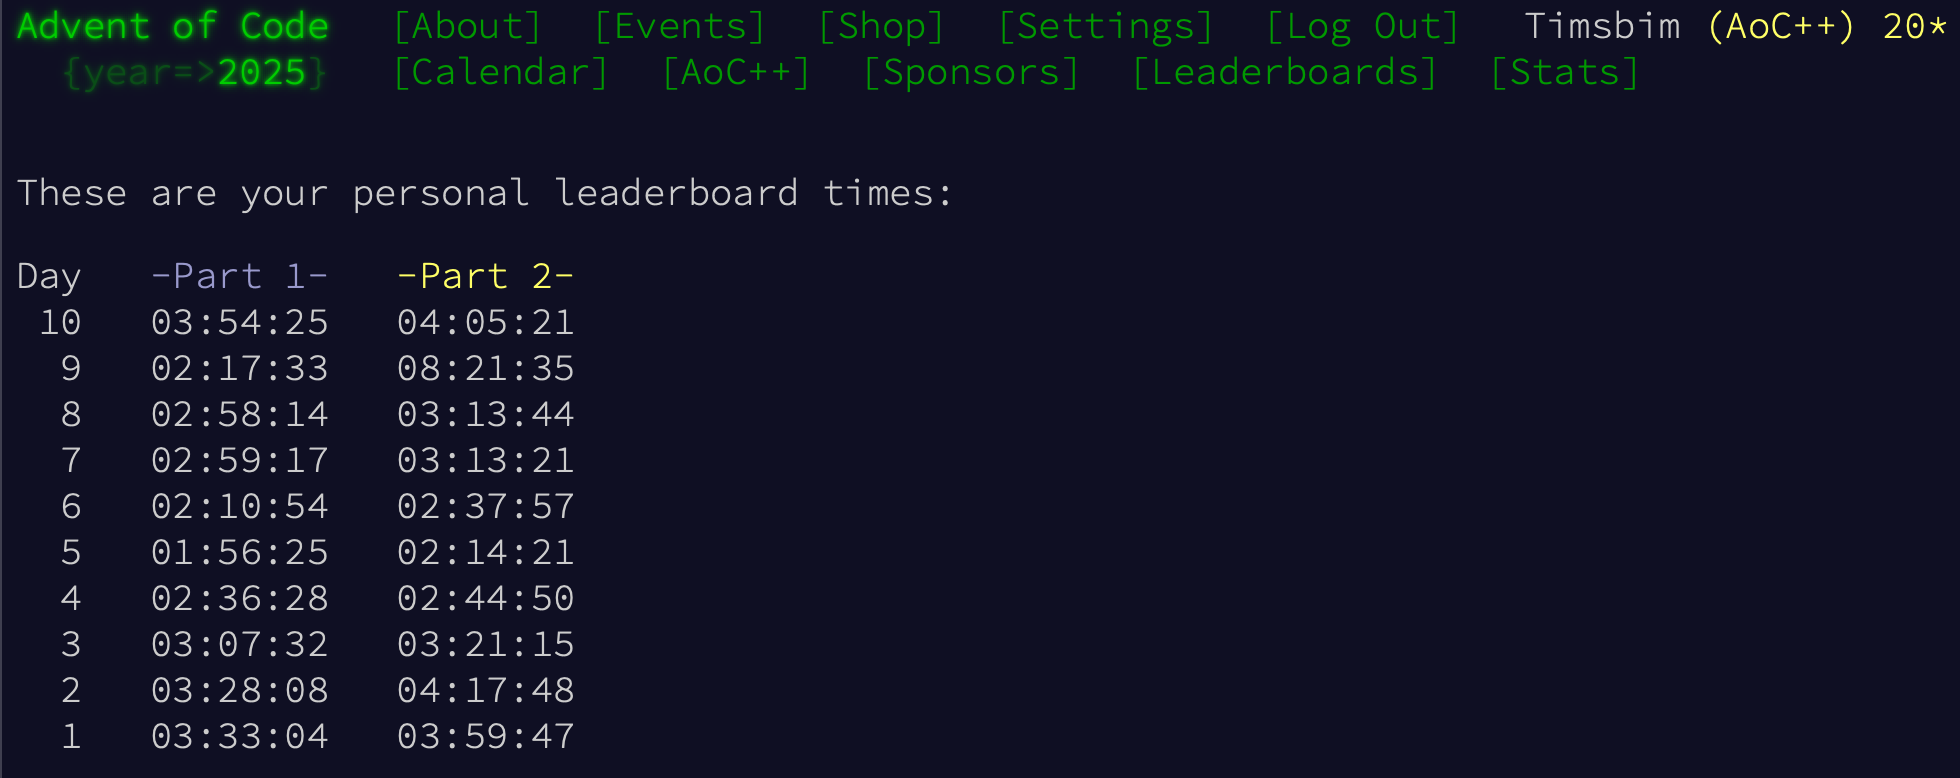
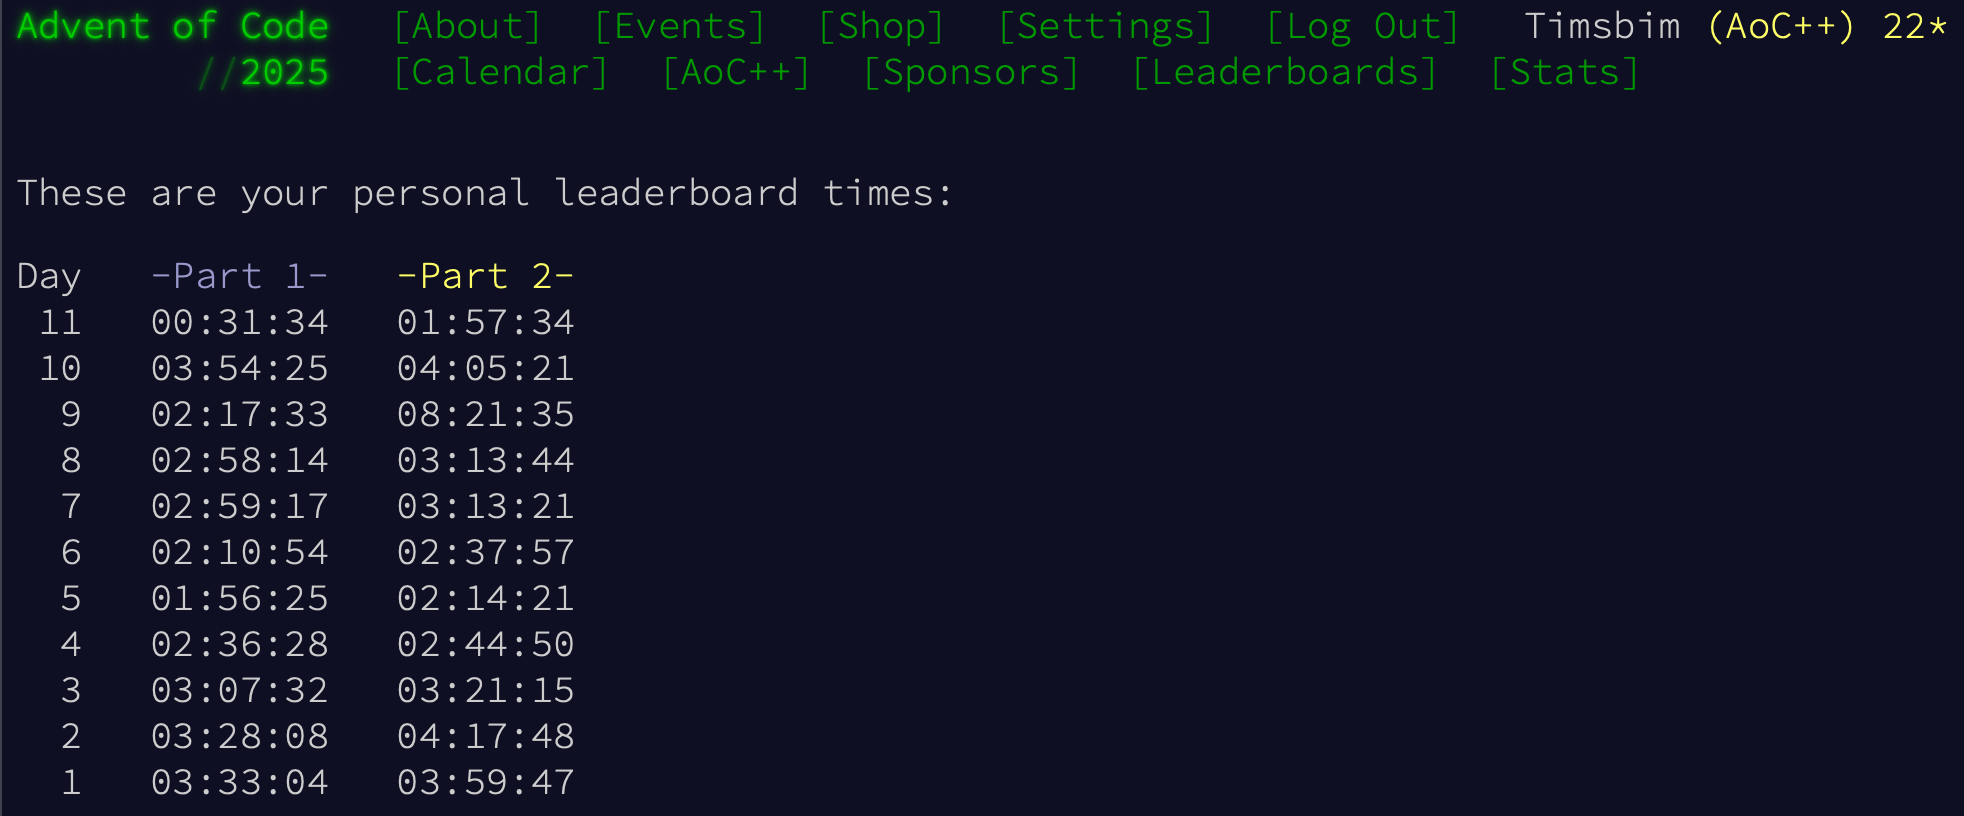
Update: solutions day 11

diff --git a/run_all.py b/run_all.py
@@ -526,6 +526,79 @@ def day_10():
     assert solution == (33 if EXAMPLE else 18387)
 
 
+def day_11():
+    print("Day 11:")
+
+    file_name = f"2025/input/day_11{'_example' if EXAMPLE else ''}.txt"
+    CONNECTS = {}
+    with open(file_name, "r") as file:
+        for line in file:
+            left, right = line.rstrip().split(": ")
+            CONNECTS[left] = tuple(right.split())
+
+
+    def part_1():
+        count = 0
+        stack = [["you"]]
+        while stack:
+            path = stack.pop()
+            for node in CONNECTS[path[-1]]:
+                if node == "out":
+                    count += 1
+                elif node not in path:
+                    stack.append(path + [node])
+        return count
+
+
+    print(f"  - part 1:", solution := part_1())
+    assert solution == (5 if EXAMPLE else 497)
+
+
+    def part_2():
+        if EXAMPLE:
+            return 2
+
+        levels = [
+            {"svr"},
+            {"hin", "kvv", "xsj", "qef", "qhx"},
+            {"vab", "rpz", "vom", "heu", "dfh"},
+            {"wwq", "eiu", "gdg", "wru"},
+            {"uit", "mqr", "etj"},
+            {"ymg", "tnx", "you"},
+            {"out"}
+        ]
+    
+        counts_last = {"svr": 1}
+        for level, (starts, targets) in enumerate(zip(levels, levels[1:])):
+            counts_level = {}
+            for n0 in starts:
+                counts = {}
+                stack = [[n0]]
+                while stack:
+                    path = stack.pop()
+                    for node in CONNECTS.get(path[-1], []):
+                        if node in targets:
+                            if level == 1:
+                                if "fft" in path:
+                                    counts[node] = counts.get(node, 0) + 1
+                            elif level == 4:
+                                if "dac" in path:
+                                    counts[node] = counts.get(node, 0) + 1
+                            else:
+                                counts[node] = counts.get(node, 0) + 1
+                        elif node not in path:
+                            stack.append(path + [node])
+                for n, count in counts.items():
+                    counts_level[n] = counts_level.get(n, 0) + count * counts_last[n0]
+            counts_last = counts_level
+    
+        return sum(counts_last.values())
+
+
+    print(f"  - part 2:", solution := part_2())
+    assert solution == (2 if EXAMPLE else 358564784931864)
+
+
 days = {
     1: day_1,
     2: day_2,
@@ -536,7 +609,8 @@ days = {
     7: day_7,
     8: day_8,
     9: day_9,
-    10: day_10
+    10: day_10,
+    11: day_11
 }
 
 

diff --git a/day_11.py b/day_11.py
@@ -1,0 +1,73 @@
+print("Day 11")
+EXAMPLE = False
+
+
+file_name = f"2025/input/day_11{'_example' if EXAMPLE else ''}.txt"
+CONNECTS = {}
+with open(file_name, "r") as file:
+    for line in file:
+        left, right = line.rstrip().split(": ")
+        CONNECTS[left] = tuple(right.split())
+
+
+def part_1():
+    count = 0
+    stack = [["you"]]
+    while stack:
+        path = stack.pop()
+        for node in CONNECTS[path[-1]]:
+            if node == "out":
+                count += 1
+            elif node not in path:
+                stack.append(path + [node])
+    return count
+
+
+print("Part 1:", solution := part_1())
+assert solution == (5 if EXAMPLE else 497)
+
+
+def part_2():
+    if EXAMPLE:
+        return 2
+
+    levels = [
+        {"svr"},
+        {"hin", "kvv", "xsj", "qef", "qhx"},
+        {"vab", "rpz", "vom", "heu", "dfh"},
+        {"wwq", "eiu", "gdg", "wru"},
+        {"uit", "mqr", "etj"},
+        {"ymg", "tnx", "you"},
+        {"out"}
+    ]
+    
+    counts_last = {"svr": 1}
+    for level, (starts, targets) in enumerate(zip(levels, levels[1:])):
+        counts_level = {}
+        for n0 in starts:
+            counts = {}
+            stack = [[n0]]
+            while stack:
+                path = stack.pop()
+                for node in CONNECTS.get(path[-1], []):
+                    if node in targets:
+                        if level == 1:
+                            if "fft" in path:
+                                counts[node] = counts.get(node, 0) + 1
+                        elif level == 4:
+                            if "dac" in path:
+                                counts[node] = counts.get(node, 0) + 1
+                        else:
+                            counts[node] = counts.get(node, 0) + 1
+                    elif node not in path:
+                        stack.append(path + [node])
+            for n, count in counts.items():
+                counts_level[n] = counts_level.get(n, 0) + count * counts_last[n0]
+        counts_last = counts_level
+    
+    return sum(counts_last.values())
+
+
+print("Part 2:", solution := part_2())
+assert solution == (2 if EXAMPLE else 358564784931864)
+
